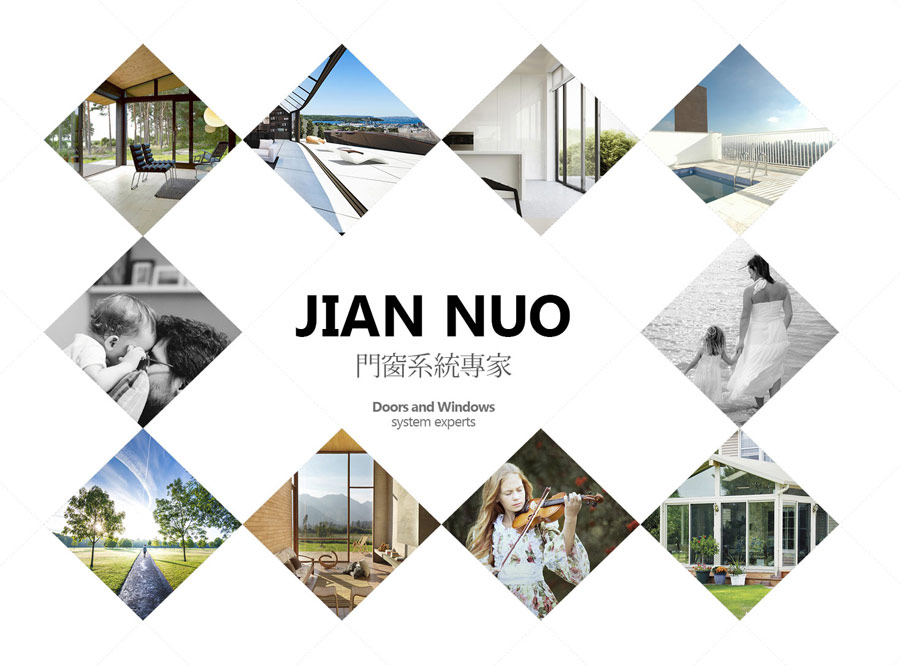
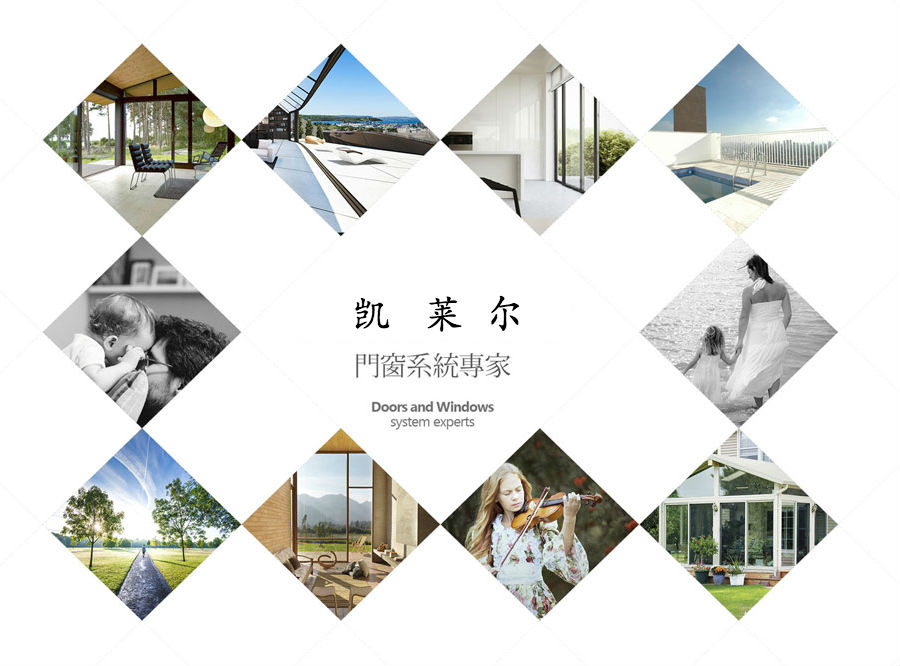
修改图片
修改图片

diff --git a/index.html b/index.html
@@ -50,6 +50,7 @@ var DTTour = 'http://www.fczscl.com/company/tour.php';
 <li title="13859962021">微信：13859962021</li>
 <li title="0592-6108444460">电话：0592-6108460</li>
 <li title="0592-6108444460">传真：0592-6108460</li>
+</ul>
 </div>
 <div class="side_head"><div><span class="f_r"><a href="#"><img src="static/more.gif" title="更多"/></a></span><strong>新闻中心</strong></div></div>
 <div class="side_body">
@@ -67,14 +68,15 @@ var DTTour = 'http://www.fczscl.com/company/tour.php';
 <td width="10" id="split"></td>
 <td valign="top" id="main"><!--主体内容 start-->
 <div class="dsn" id="pos_show">您当前的位置：<a href="index.html">首页</a> &raquo; 欢迎光临</div>
-<div class="main_head"><div><span class="f_r"><a href="#"><img src="statci/more.gif" title="更多"/></a></span><strong>推荐产品</strong></div></div>
+<div class="main_head">
+<div><span class="f_r"><a href="#"><img src="statci/more.gif" title="更多"/></a></span><strong>热卖产品</strong></div></div>
 <div class="main_body">
-<!--<div id="elite" style="height:180px;overflow:hidden;">-->
 <table cellpadding="0" cellspacing="0" width="100%">
-<tr align="left"><td valign="top" width="20%" height="180">
+<tr align="left">
+<td valign="top" width="20%" height="180">
 <div class="thumb" onmouseover="this.className='thumb thumb_on';" onmouseout="this.className='thumb';">
-<a href="http://www.fczscl.com/com/jiannuo/mall/itemid-4561.html" target="_blank"><img src="http://www.fczscl.com/file/upload/201601/05/14-38-02-18-359.jpg.thumb.jpg" width="170" height="170" alt="75折叠门系列"/></a>
-<div><a href="http://www.fczscl.com/com/jiannuo/mall/itemid-4561.html" title="75折叠门系列" target="_blank">75折叠门系列</a></div>
+<a href="http://www.fczscl.com/com/jiannuo/mall/itemid-4569.html" target="_blank"><img src="http://www.fczscl.com/file/upload/201601/05/15-11-00-13-359.jpg.thumb.jpg" width="170" height="170" alt="JN90窗纱一体内开内倒断桥系列"/></a>
+<div><a href="http://www.fczscl.com/com/jiannuo/mall/itemid-4569.html" title="JN90窗纱一体内开内倒断桥系列" target="_blank">JN90窗纱一体内开内倒断桥系列</a></div>
 <span class="f_price px16">￥0.00</span> 
 </div>
 </td>
@@ -106,13 +108,7 @@ var DTTour = 'http://www.fczscl.com/company/tour.php';
 <span class="f_price px16">￥0.00</span> 
 </div>
 </td>
-<td valign="top" width="20%" height="180">
-<div class="thumb" onmouseover="this.className='thumb thumb_on';" onmouseout="this.className='thumb';">
-<a href="http://www.fczscl.com/com/jiannuo/mall/itemid-4569.html" target="_blank"><img src="http://www.fczscl.com/file/upload/201601/05/15-11-00-13-359.jpg.thumb.jpg" width="170" height="170" alt="JN90窗纱一体内开内倒断桥系列"/></a>
-<div><a href="http://www.fczscl.com/com/jiannuo/mall/itemid-4569.html" title="JN90窗纱一体内开内倒断桥系列" target="_blank">JN90窗纱一体内开内倒断桥系列</a></div>
-<span class="f_price px16">￥0.00</span> 
-</div>
-</td>
+
 <td valign="top" width="20%" height="180">
 <div class="thumb" onmouseover="this.className='thumb thumb_on';" onmouseout="this.className='thumb';">
 <a href="http://www.fczscl.com/com/jiannuo/mall/itemid-4570.html" target="_blank"><img src="http://www.fczscl.com/file/upload/201601/05/15-12-25-21-359.jpg.thumb.jpg" width="170" height="170" alt="JN135窗纱一体断桥系列"/></a>
@@ -120,72 +116,17 @@ var DTTour = 'http://www.fczscl.com/company/tour.php';
 <span class="f_price px16">￥0.00</span> 
 </div>
 </td>
-</table>
-</div>
-<!--
-</div>
-<script type="text/javascript" src="http://www.fczscl.com/file/script/marquee.js"></script><script type="text/javascript">window.onload = function() {new dmarquee(180, 15, 2000, 'elite');}/* FIX IE6 */</script>
---><div class="main_head"><div><span class="f_r"><a href="http://www.fczscl.com/com/jiannuo/mall/"><img src="http://www.fczscl.com/company/image/more.gif" title="更多"/></a></span><strong>热卖商品</strong></div></div>
-<div class="main_body">
-<table cellpadding="0" cellspacing="0" width="100%">
-<tr align="left"><td valign="top" width="20%" height="180">
-<div class="thumb" onmouseover="this.className='thumb thumb_on';" onmouseout="this.className='thumb';">
-<a href="http://www.fczscl.com/com/jiannuo/mall/itemid-4561.html" target="_blank"><img src="http://www.fczscl.com/file/upload/201601/05/14-38-02-18-359.jpg.thumb.jpg" width="170" height="170" alt="75折叠门系列"/></a>
-<div><a href="http://www.fczscl.com/com/jiannuo/mall/itemid-4561.html" title="75折叠门系列" target="_blank">75折叠门系列</a></div>
-     <span class="moeny">售价：<span class="f_red">面议,请联系商家</span></span>
-</div>
-</td>
-<td valign="top" width="20%" height="180">
-<div class="thumb" onmouseover="this.className='thumb thumb_on';" onmouseout="this.className='thumb';">
-<a href="http://www.fczscl.com/com/jiannuo/mall/itemid-4566.html" target="_blank"><img src="http://www.fczscl.com/file/upload/201601/05/15-04-14-85-359.jpg.thumb.jpg" width="170" height="170" alt="180-120两轨，三轨重型推拉门系列"/></a>
-<div><a href="http://www.fczscl.com/com/jiannuo/mall/itemid-4566.html" title="180-120两轨，三轨重型推拉门系列" target="_blank">180-120两轨，三轨重型推拉门系列</a></div>
-     <span class="moeny">售价：<span class="f_red">面议,请联系商家</span></span>
-</div>
-</td>
-<td valign="top" width="20%" height="180">
-<div class="thumb" onmouseover="this.className='thumb thumb_on';" onmouseout="this.className='thumb';">
-<a href="http://www.fczscl.com/com/jiannuo/mall/itemid-4558.html" target="_blank"><img src="http://www.fczscl.com/file/upload/201601/05/14-34-52-16-359.jpg.thumb.jpg" width="170" height="170" alt="55非断桥平开窗系列"/></a>
-<div><a href="http://www.fczscl.com/com/jiannuo/mall/itemid-4558.html" title="55非断桥平开窗系列" target="_blank">55非断桥平开窗系列</a></div>
-     <span class="moeny">售价：<span class="f_red">面议,请联系商家</span></span>
-</div>
-</td>
-<td valign="top" width="20%" height="180">
-<div class="thumb" onmouseover="this.className='thumb thumb_on';" onmouseout="this.className='thumb';">
-<a href="http://www.fczscl.com/com/jiannuo/mall/itemid-4562.html" target="_blank"><img src="http://www.fczscl.com/file/upload/201601/05/14-38-53-49-359.jpg.thumb.jpg" width="170" height="170" alt="80两轨-三轨推拉门（窗）系列"/></a>
-<div><a href="http://www.fczscl.com/com/jiannuo/mall/itemid-4562.html" title="80两轨-三轨推拉门（窗）系列" target="_blank">80两轨-三轨推拉门（窗）系列</a></div>
-     <span class="moeny">售价：<span class="f_red">面议,请联系商家</span></span>
-</div>
-</td>
-</tr><tr align="left"><td valign="top" width="20%" height="180">
-<div class="thumb" onmouseover="this.className='thumb thumb_on';" onmouseout="this.className='thumb';">
-<a href="http://www.fczscl.com/com/jiannuo/mall/itemid-4565.html" target="_blank"><img src="http://www.fczscl.com/file/upload/201601/05/15-02-03-61-359.jpg.thumb.jpg" width="170" height="170" alt="120非断桥纱窗纱系列"/></a>
-<div><a href="http://www.fczscl.com/com/jiannuo/mall/itemid-4565.html" title="120非断桥纱窗纱系列" target="_blank">120非断桥纱窗纱系列</a></div>
-     <span class="moeny">售价：<span class="f_red">面议,请联系商家</span></span>
-</div>
-</td>
-<td valign="top" width="20%" height="180">
-<div class="thumb" onmouseover="this.className='thumb thumb_on';" onmouseout="this.className='thumb';">
-<a href="http://www.fczscl.com/com/jiannuo/mall/itemid-4569.html" target="_blank"><img src="http://www.fczscl.com/file/upload/201601/05/15-11-00-13-359.jpg.thumb.jpg" width="170" height="170" alt="JN90窗纱一体内开内倒断桥系列"/></a>
-<div><a href="http://www.fczscl.com/com/jiannuo/mall/itemid-4569.html" title="JN90窗纱一体内开内倒断桥系列" target="_blank">JN90窗纱一体内开内倒断桥系列</a></div>
-     <span class="moeny">售价：<span class="f_red">面议,请联系商家</span></span>
-</div>
-</td>
-<td valign="top" width="20%" height="180">
-<div class="thumb" onmouseover="this.className='thumb thumb_on';" onmouseout="this.className='thumb';">
-<a href="http://www.fczscl.com/com/jiannuo/mall/itemid-4570.html" target="_blank"><img src="http://www.fczscl.com/file/upload/201601/05/15-12-25-21-359.jpg.thumb.jpg" width="170" height="170" alt="JN135窗纱一体断桥系列"/></a>
-<div><a href="http://www.fczscl.com/com/jiannuo/mall/itemid-4570.html" title="JN135窗纱一体断桥系列" target="_blank">JN135窗纱一体断桥系列</a></div>
-     <span class="moeny">售价：<span class="f_red">面议,请联系商家</span></span>
-</div>
-</td>
+
 <td valign="top" width="20%" height="180">
 <div class="thumb" onmouseover="this.className='thumb thumb_on';" onmouseout="this.className='thumb';">
 <a href="http://www.fczscl.com/com/jiannuo/mall/itemid-4571.html" target="_blank"><img src="http://www.fczscl.com/file/upload/201601/05/15-14-50-42-359.jpg.thumb.jpg" width="170" height="170" alt="阳光房系列"/></a>
 <div><a href="http://www.fczscl.com/com/jiannuo/mall/itemid-4571.html" title="阳光房系列" target="_blank">阳光房系列</a></div>
-     <span class="moeny">售价：<span class="f_red">面议,请联系商家</span></span>
+    <span class="f_price px16">￥0.00</span> 
 </div>
 </td>
-</tr></table>
-</div><!--主体内容 end-->
+</table>
+</div>
+<!--主体内容 end-->
 </td>
 </tr>
 </table>

diff --git a/company.html b/company.html
@@ -41,35 +41,6 @@ var DTTour = 'http://www.fczscl.com/company/tour.php';
 <div class="m">
 <table cellpadding="0" cellspacing="0" width="100%">
 <tr>
-<td width="200" valign="top" id="side"><div class="side_head"><div><strong>公司介绍</strong></div></div>
-<div class="side_body">
-<ul>
-</ul>
-</div>
-<div class="side_head"><div><span class="f_r"><a href="#"><img src="static/more.gif" title="更多"/></a></span><strong>联系方式</strong></div></div>
-<div class="side_body">
-<ul>
-<li>联系人：郑楚成</li>
-<li title="3071743400@qq.com">邮件：3071743400@qq.com</li>
-<li title="13859962021">手机：13859962021</li>
-<li title="13859962021">微信：13859962021</li>
-<li title="0592-6108444460">电话：0592-6108460</li>
-<li title="0592-6108444460">传真：0592-6108460</li>
-</ul>
-</div>
-<div class="side_head"><div><span class="f_r"><a href="#"><img src="static/more.gif" title="更多"/></a></span><strong>新闻中心</strong></div></div>
-<div class="side_body">
-<ul>
-<li>暂无新闻</li>
-</ul>
-</div>
-<div class="side_head"><div><span class="f_r"><a href="#"><img src="static/more.gif" title="更多"/></a></span><strong>产品分类</strong></div></div>
-<div class="side_body">
-<ul>
-<li>暂无分类</li>
-</ul>
-</div>
-</td>
 <td width="10" id="split"></td>
 <td valign="top" id="main"><div class="dsn" id="pos_show">您当前的位置：<a href="index.html">首页</a> &raquo; <a href="company.html">公司介绍</a></div>
 <div class="main_head"><div><strong>公司介绍</strong></div></div>
@@ -91,15 +62,15 @@ var DTTour = 'http://www.fczscl.com/company/tour.php';
 <table width="98%" cellpadding="3" cellspacing="1" align="center">
 <tr>
 <td width="90" class="f_b">公司名称：</td>
-<td width="260">坚诺铝业</td>
+<td width="260">凯莱尔</td>
 <td width="90" class="f_b">公司类型：</td>
-<td width="260">企业单位 (制造商,贸易商)</td>
+<td width="260">企业单位 (贸易商)</td>
 </tr>
 <tr>
 <td class="f_b">所 在 地：</td>
-<td>广东/佛山市</td>
+<td>福建/厦门市</td>
 <td class="f_b">公司规模：</td>
-<td>100-499人</td>
+<td>10-100人</td>
 </tr>
 <tr>
 <td class="f_b">注册资本：</td>
@@ -117,7 +88,7 @@ var DTTour = 'http://www.fczscl.com/company/tour.php';
 </tr>
 <tr>
 <td class="f_b">经营模式：</td>
-<td>制造商,贸易商</td>
+<td>贸易商</td>
 </tr>
 <tr>
 <td class="f_b">经营范围：</td>
@@ -126,19 +97,6 @@ var DTTour = 'http://www.fczscl.com/company/tour.php';
 <tr>
 <td class="f_b">销售的产品：</td>
 <td>库存供应各种高端门窗、阳光房铝型材，各款高端成品门窗</td>
-</tr>
-<tr>
-<td width="90"  class="f_b">主营行业：</td>
-<td>
-<table cellpadding="2" cellspacing="2" width="100%">
-<tr><td width="33%"><a href="http://www.fczscl.com/company/list.php?catid=6" target="_blank">市场二期</a> / <a href="http://www.fczscl.com/company/list.php?catid=19" target="_blank">铝材</a></td>
-<td width="33%"><a href="http://www.fczscl.com/company/list.php?catid=6" target="_blank">市场二期</a> / <a href="http://www.fczscl.com/company/list.php?catid=16" target="_blank">门窗</a></td>
-<td width="33%"><a href="http://www.fczscl.com/company/list.php?catid=6" target="_blank">市场二期</a> / <a href="http://www.fczscl.com/company/list.php?catid=20" target="_blank">门窗配件</a></td>
-</tr><tr><td width="33%"><a href="http://www.fczscl.com/company/list.php?catid=6" target="_blank">市场二期</a> / <a href="http://www.fczscl.com/company/list.php?catid=18" target="_blank">幕墙</a></td>
-<td width="33%"><a href="http://www.fczscl.com/company/list.php?catid=6" target="_blank">市场二期</a> / <a href="http://www.fczscl.com/company/list.php?catid=21" target="_blank">门窗设备</a></td>
-<td width="33%"><a href="http://www.fczscl.com/company/list.php?catid=6" target="_blank">市场二期</a> / <a href="http://www.fczscl.com/company/list.php?catid=23" target="_blank">其他附件</a></td>
-</tr></table>
-</td>
 </tr>
 </table>
 </div>
